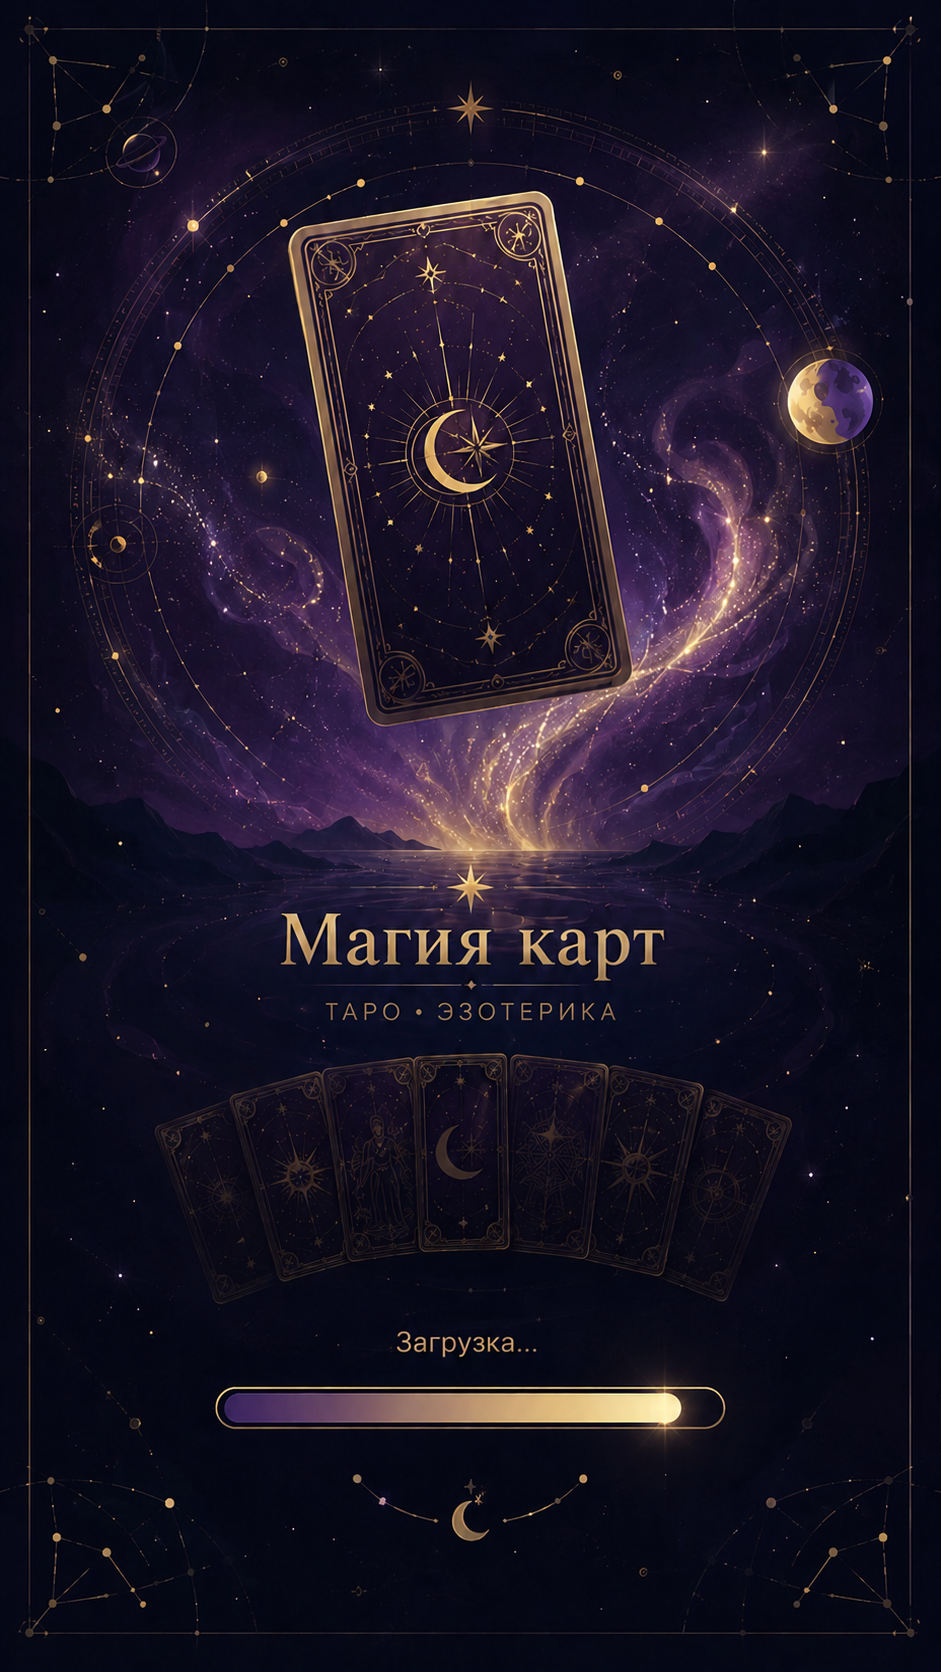
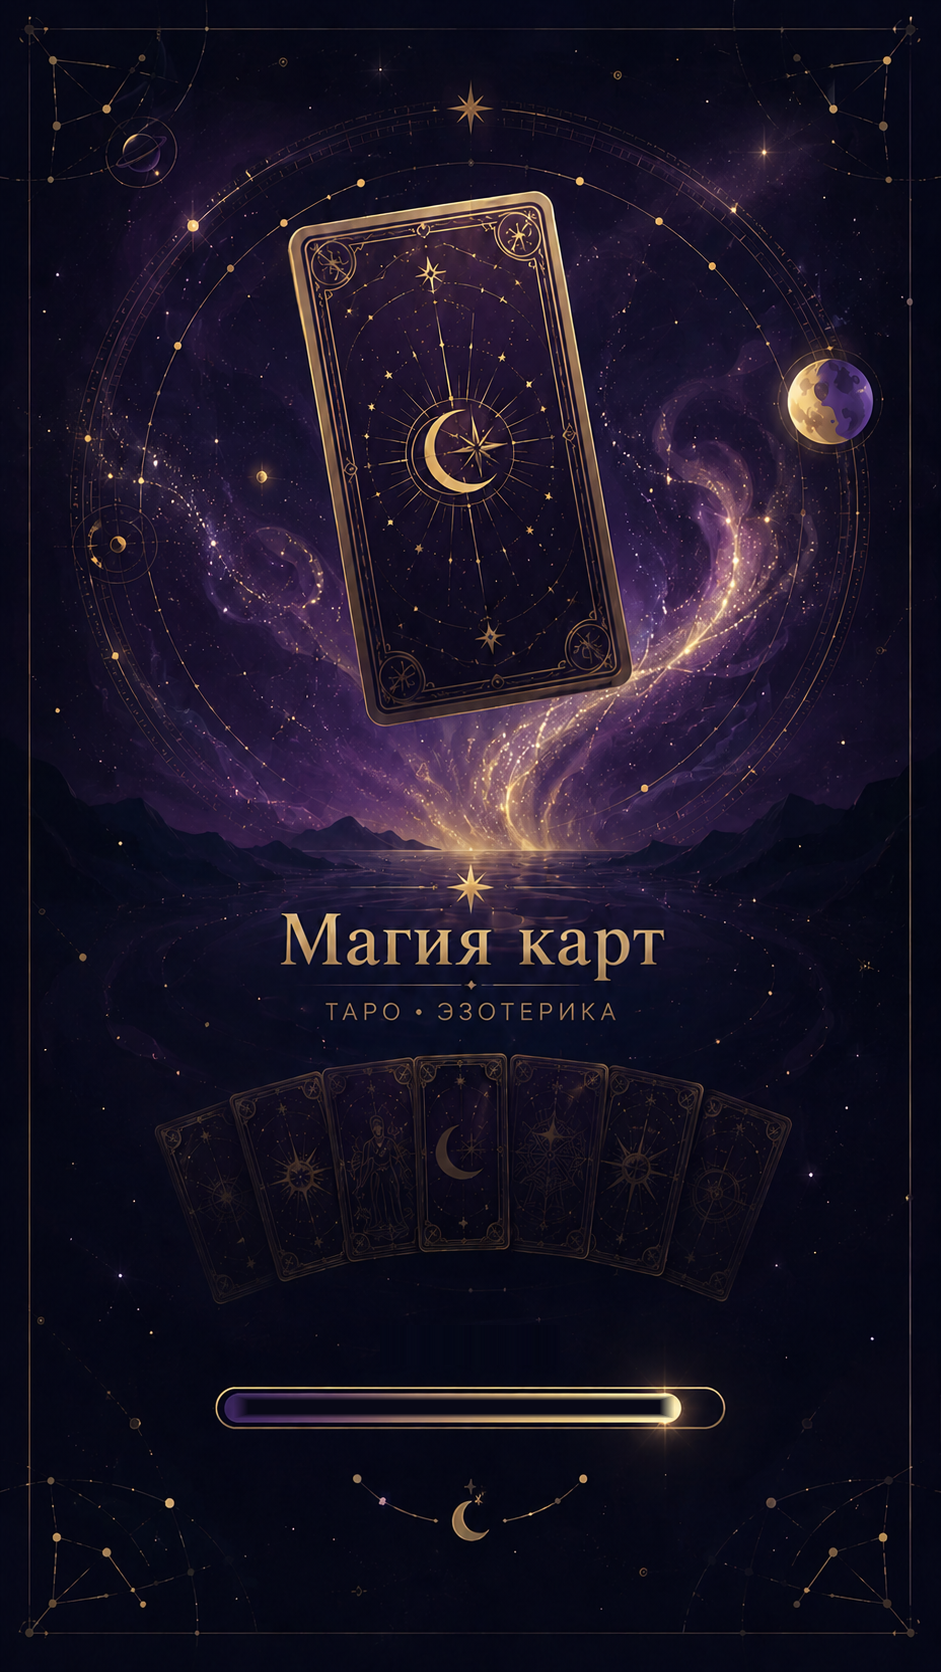
fix: animate image's own progress bar, remove overlay bar/text
- Edited PNG: removed baked-in 'Загрузка...' text and bar fill
- Bar frame kept intact in image
- CSS animated fill positioned exactly over image bar frame
- Purple→gold gradient fill matches original artwork style
- Golden glow pulse on filled bar
- Status messages positioned where 'Загрузка...' was
- Removed separate overlay progress bar

Changed region(s): [[0.2465, 0.7775, 0.7088, 0.8708]]

diff --git a/src/components/ui/LoadingScreen.tsx b/src/components/ui/LoadingScreen.tsx
@@ -15,14 +15,14 @@ const MESSAGES: Record<string, string[]> = {
     'Призываем духов карт…',
   ],
   uk: [
-    'Тасуємо колоду долі…',
+    "Тасуємо колоду долі…",
     "Вибудовуємо сузір'я…",
-    'Відкриваємо астральні брами…',
-    'Налаштовуємо енергетичні потоки…',
-    'Пробуджуємо місячну магію…',
-    'Зчитуємо космічні вібрації…',
-    'Запалюємо містичний вогонь…',
-    'Кличемо духів карт…',
+    "Відкриваємо астральні брами…",
+    "Налаштовуємо енергетичні потоки…",
+    "Пробуджуємо місячну магію…",
+    "Зчитуємо космічні вібрації…",
+    "Запалюємо містичний вогонь…",
+    "Кличемо духів карт…",
   ],
   en: [
     'Shuffling the deck of fate…',
@@ -36,11 +36,11 @@ const MESSAGES: Record<string, string[]> = {
   ],
 };
 
-// Pre-generate sparkle positions so they stay stable across renders
+// Sparkle particles
 const SPARKLES = Array.from({ length: 30 }, (_, i) => ({
   id: i,
   left: `${Math.random() * 100}%`,
-  top: `${5 + Math.random() * 80}%`,
+  top: `${5 + Math.random() * 75}%`,
   size: Math.random() * 3 + 1.5,
   duration: Math.random() * 2.5 + 2,
   delay: Math.random() * 4,
@@ -119,35 +119,51 @@ export default function LoadingScreen() {
         />
       ))}
 
-      {/* ── Bottom overlay: loading bar + cycling message ── */}
+      {/* ── Animated bar fill — positioned over the image's bar frame ──
+           Image bar frame: y=1395-1418 (fill area), x=233-674
+           As percentage of 941×1672 image:
+             top: 83.4%, height: 1.38%
+             left: 24.8%, width: 46.9%
+           Since object-cover centers, horizontal centering works.
+      ── */}
       <div
-        className="absolute bottom-0 left-0 right-0 flex flex-col items-center pb-[15%] px-6 transition-all duration-[1800ms] ease-out"
+        className="absolute pointer-events-none"
         style={{
-          opacity: show ? 1 : 0,
-          transform: show ? 'translateY(0)' : 'translateY(20px)',
-          transitionDelay: '800ms',
+          top: '83.4%',
+          left: '50%',
+          transform: 'translateX(-50%)',
+          width: '47%',
+          height: '1.4%',
         }}
       >
-        {/* Status message */}
+        <div
+          className="h-full rounded-sm"
+          style={{
+            background: 'linear-gradient(90deg, #3B2560, #6E4F73, #A07850, #D4AF37, #F0D68A)',
+            boxShadow: '0 0 12px rgba(212,175,55,0.4), 0 0 24px rgba(212,175,55,0.2)',
+            animation: show
+              ? 'bar-fill 3.5s ease-out forwards, bar-glow 2s ease-in-out 1s infinite'
+              : 'none',
+          }}
+        />
+      </div>
+
+      {/* ── Cycling status message — positioned where "Загрузка..." was ── */}
+      <div
+        className="absolute pointer-events-none flex items-center justify-center"
+        style={{
+          top: '79.5%',
+          left: '50%',
+          transform: 'translateX(-50%)',
+          width: '60%',
+        }}
+      >
         <p
-          className="text-amber-200/70 text-[11px] font-light tracking-[0.2em] uppercase mb-3 animate-fade-in"
+          className="text-amber-200/80 text-[11px] font-light tracking-[0.18em] uppercase text-center animate-fade-in"
           key={msgIdx}
         >
           {msgs[msgIdx]}
         </p>
-
-        {/* Loading bar */}
-        <div className="w-56 h-[3px] bg-white/5 rounded-full overflow-hidden border border-amber-400/10">
-          <div
-            className="h-full rounded-full animate-loading-bar"
-            style={{
-              background:
-                'linear-gradient(90deg, #7c3aed, #a855f7, #d4af37, #ffd700, #d4af37, #a855f7, #7c3aed)',
-              backgroundSize: '200% 100%',
-              animation: 'loading-bar 3s ease-in-out forwards, loading-bar-shimmer 1.5s ease-in-out infinite',
-            }}
-          />
-        </div>
       </div>
     </div>
   );

diff --git a/src/app/globals.css b/src/app/globals.css
@@ -286,6 +286,21 @@ body {
   animation: fade-in 0.6s ease-out forwards;
 }
 
+/* Loading bar fill animation */
+@keyframes bar-fill {
+  0% { width: 0%; opacity: 0.6; }
+  15% { width: 12%; opacity: 1; }
+  40% { width: 45%; }
+  65% { width: 70%; }
+  85% { width: 88%; }
+  100% { width: 100%; }
+}
+
+@keyframes bar-glow {
+  0%, 100% { box-shadow: 0 0 10px rgba(212,175,55,0.3), 0 0 20px rgba(212,175,55,0.15); }
+  50% { box-shadow: 0 0 16px rgba(212,175,55,0.5), 0 0 32px rgba(212,175,55,0.3); }
+}
+
 .bg-gradient-radial {
   background: radial-gradient(ellipse at center, var(--tw-gradient-stops));
 }
